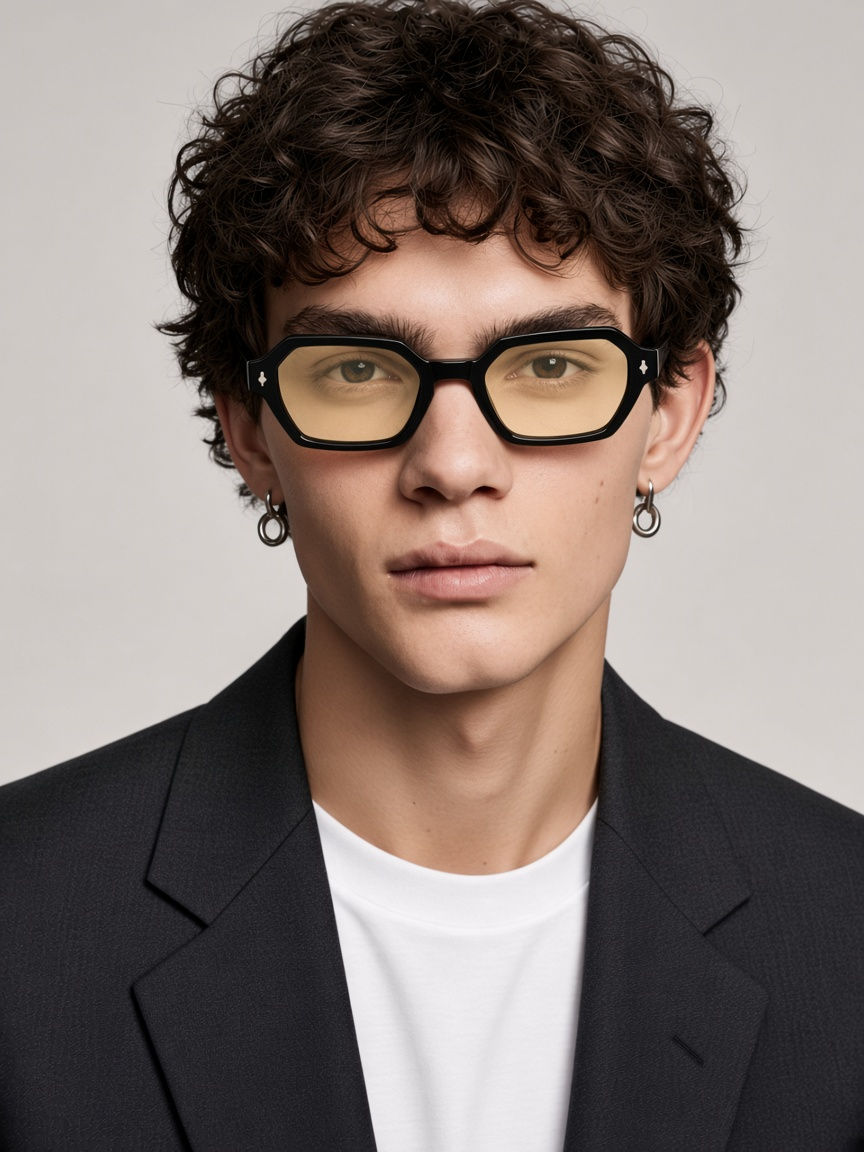
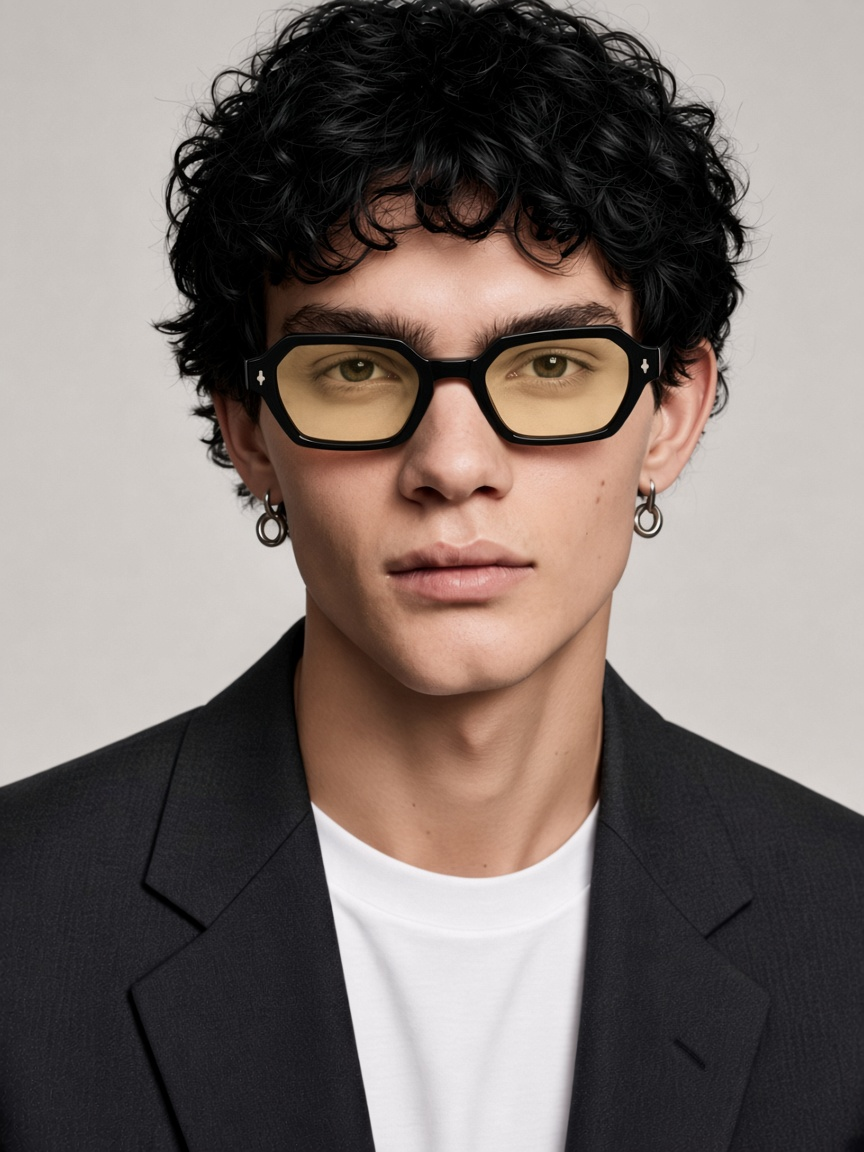
Put the face under the cursor, and take the brown out of his hair
Two things on the grid of three lenses.

The tile showed the object and nothing else, and the grid's whole
question is which lens, which is a question about a face. Resting on a
tile now crossfades the render for the same lens worn. The portrait is
taller than the tile, so it crops to a band across the eyes, and the
band is placed by hand: the glasses sit about a third of the way down
the picture, and how much of it survives the crop depends on the tile's
own ratio, which changes at sm. It carries no alt, because the render
beneath it already names the frame and a reader does not need the same
pair described twice.

Phones keep the render, since there is no cursor to rest.

The hair was brown. It is black now, in all three lenses, reshot from
one another so it stays one model in one jacket under one light with
only the glass moving. Same 864 by 1152, so nothing in the layout or
the catalog moves.

diff --git a/src/components/product/colorway-card.tsx b/src/components/product/colorway-card.tsx
@@ -22,7 +22,7 @@ export function ColorwayCard({
 
   return (
     <article className={cn("group relative", className)}>
-      <div className="plate relative flex aspect-5/4 items-center justify-center sm:aspect-16/10">
+      <div className="plate relative flex aspect-5/4 items-center justify-center overflow-hidden sm:aspect-16/10">
         <div
           aria-hidden
           className="absolute inset-0 opacity-0 transition-opacity duration-1000 ease-tamiale group-hover:opacity-100"
@@ -36,7 +36,30 @@ export function ColorwayCard({
           width={colorway.image.width}
           height={colorway.image.height}
           sizes="(max-width: 640px) 92vw, (max-width: 1024px) 46vw, 31vw"
-          className="relative z-10 w-full"
+          className="relative z-10 w-full transition-opacity duration-700 ease-tamiale group-hover:opacity-0"
+        />
+
+        {/*
+         * The same lens worn, underneath the cursor rather than behind a
+         * click. The object answers what it is and the face answers whether
+         * you want it, and on a grid whose whole question is "which lens"
+         * the second answer is the one being compared.
+         *
+         * The portrait is taller than the tile, so it is cropped to a band
+         * across the eyes, and the band has to be placed by hand: the
+         * glasses sit about a third of the way down the frame, and how much
+         * of the picture survives the crop changes with the tile's own
+         * ratio, which changes at `sm`.
+         *
+         * Decorative, because the render above it already carries the alt
+         * and a reader does not need the same frame described twice.
+         */}
+        <Image
+          src={colorway.worn.src}
+          alt=""
+          fill
+          sizes="(max-width: 640px) 92vw, (max-width: 1024px) 46vw, 31vw"
+          className="absolute inset-0 z-20 object-cover object-[center_8%] opacity-0 transition-opacity duration-700 ease-tamiale group-hover:opacity-100 sm:object-[center_18%]"
         />
       </div>
 
